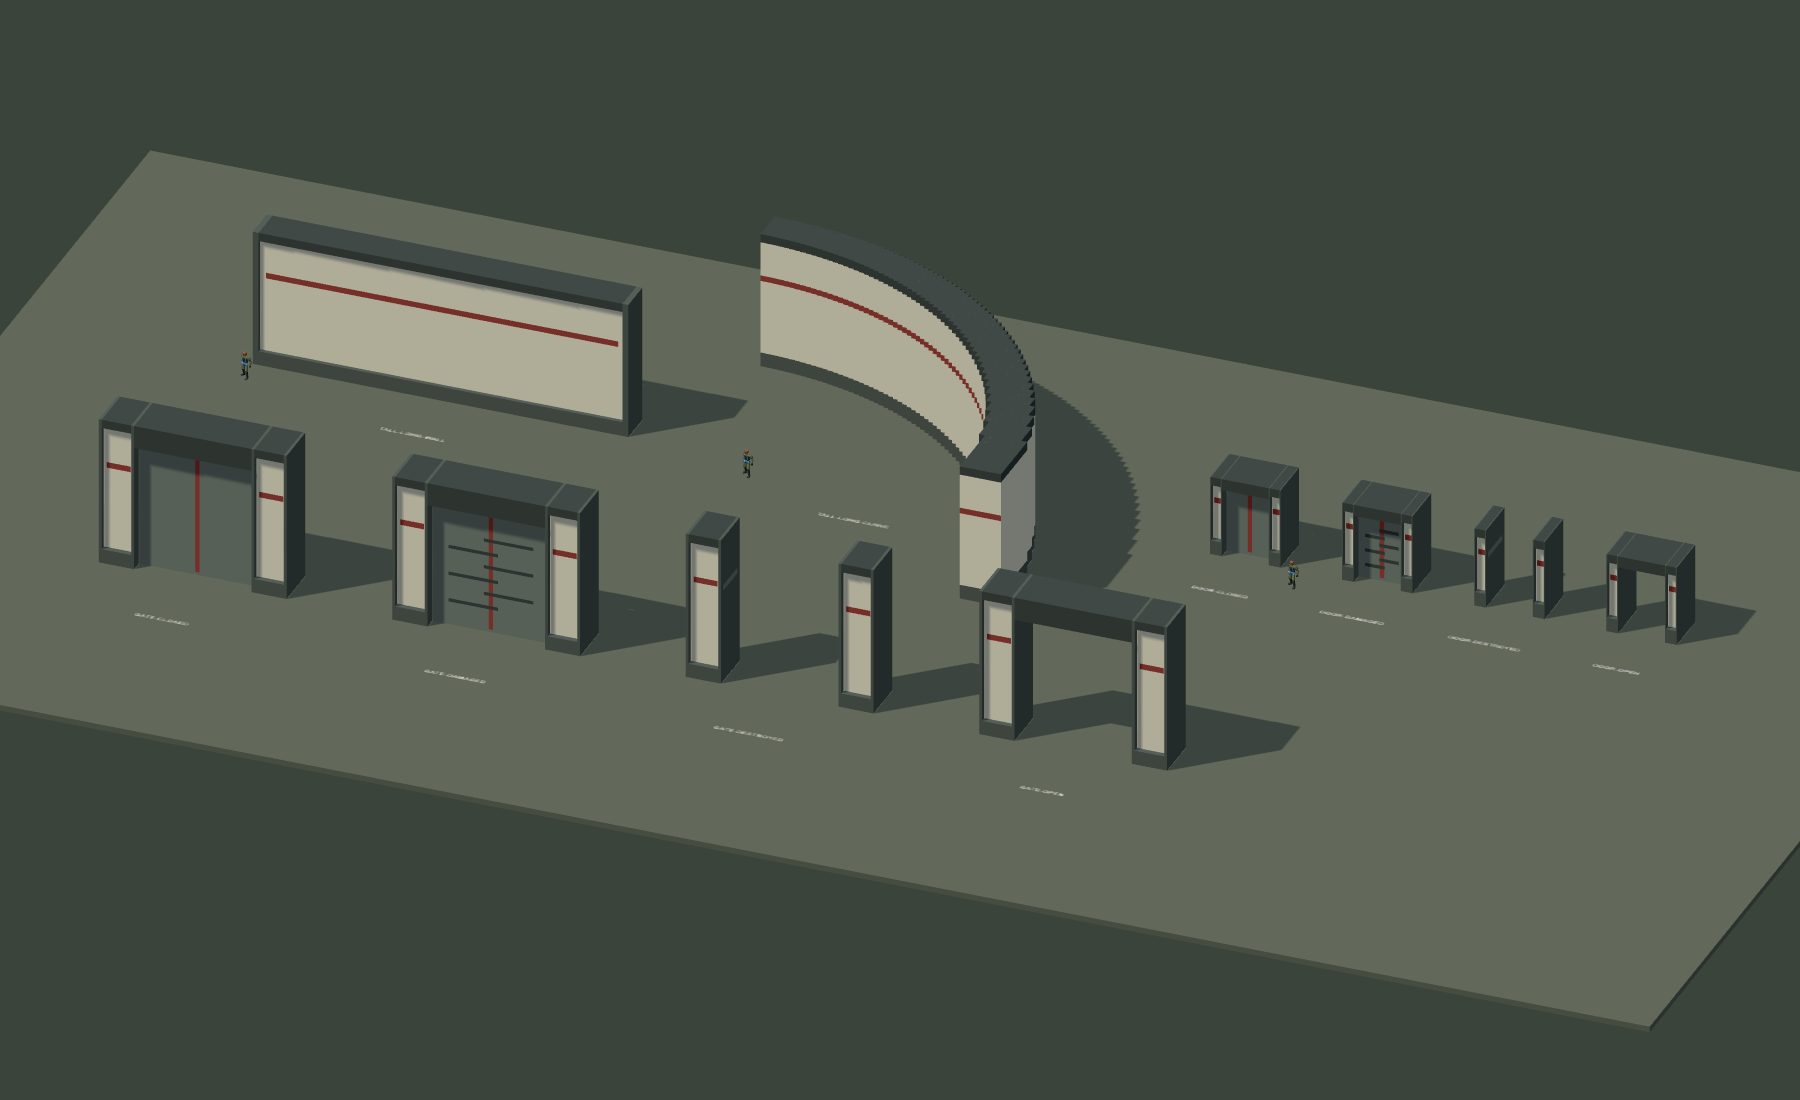
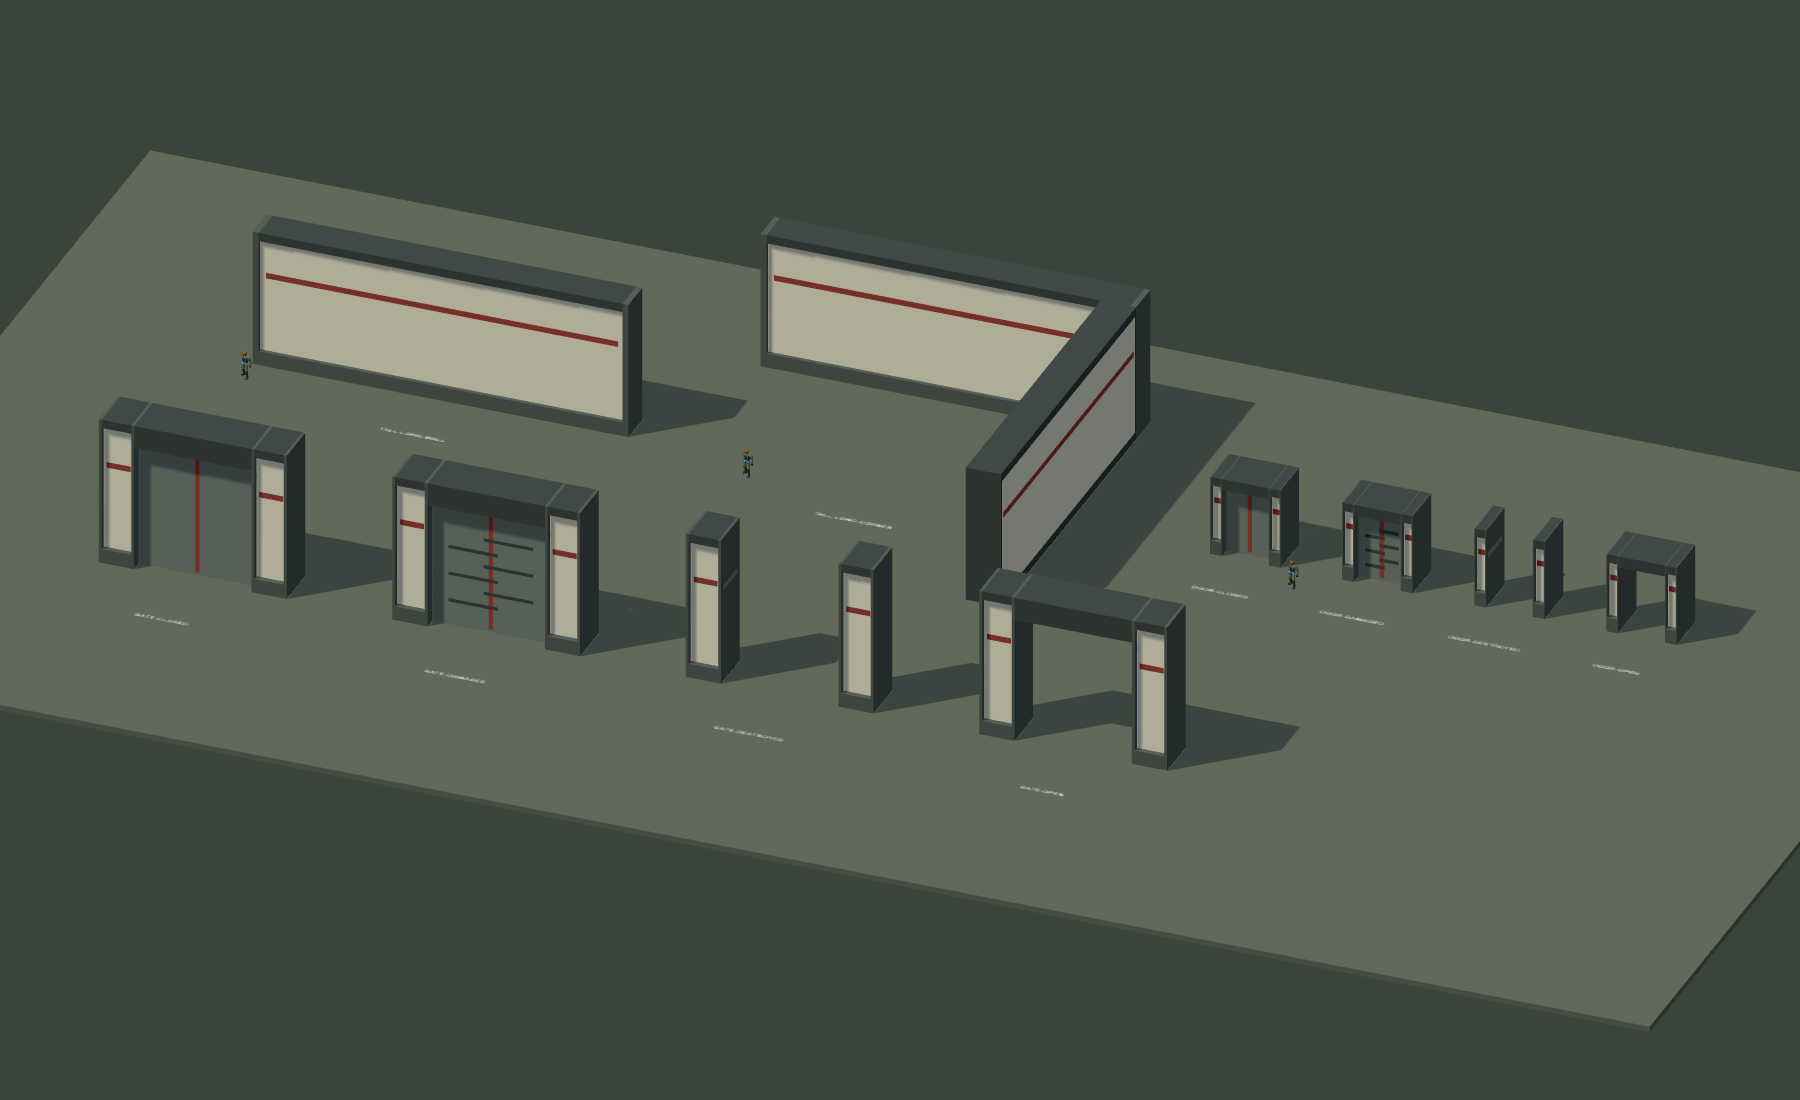
Replace bend with L corner and widen Highwall perimeter

Changed region(s): [[0.4044, 0.2164, 0.7156, 0.5564]]

diff --git a/src/data/fortification-kit.js b/src/data/fortification-kit.js
@@ -7,7 +7,8 @@ const def=(id,w,h,d,recipe,extra={})=>Object.freeze({id,dimensions:{width:w,heig
 const deviceMount=(id,position,type)=>({id,position,normal:[0,1,0],type});
 export const FORTIFICATION_MODULES=Object.freeze(Object.fromEntries([
  def('tall-long-wall',128,48,12,'wall'),
- def('tall-long-curve',128,48,128,'curve',{sockets:[{id:'west',position:[-64,0,-58],normal:[-1,0,0],type:'wall'},{id:'south',position:[58,0,64],normal:[0,0,1],type:'wall'}]}),
+ def('tall-long-corner',128,48,128,'corner',{sockets:[{id:'west',position:[-64,0,-58],normal:[-1,0,0],type:'wall'},{id:'south',position:[58,0,64],normal:[0,0,1],type:'wall'}]}),
+ def('border-wall',256,96,24,'wall'),
  ...['gate','door'].flatMap(type=>['closed','open','damaged','destroyed'].map(state=>def(`${type}-${state}`,type==='gate'?64:24,type==='gate'?52:28,16,'portal',{damageState:state==='damaged'||state==='destroyed'?state:null,portalState:state,navigation:{obstruction:'solids',openings:state==='open'||state==='destroyed'?[{width:type==='gate'?40:16,height:type==='gate'?44:24}]:[]}}))),
  def('tall-wall',32,48,12,'wall'),def('tall-half-wall',16,48,12,'wall'),
  def('tall-corner',32,48,32,'corner',{sockets:[{id:'west',position:[-16,0,-10],normal:[-1,0,0],type:'wall'},{id:'south',position:[10,0,16],normal:[0,0,1],type:'wall'}]}),
@@ -55,19 +56,6 @@ export function fortificationRecipe(moduleId,options={}){
  };
  switch(definition.recipe){
  case 'wall':panel(0,0,w,h,d);break;
- case 'curve':{
-  // Faceted quarter-circle, with the exact same strip union used for collision.
-  for(let x=-64;x<64;x+=2){
-   const near=x+64,far=near+2;
-   const z0=64-Math.sqrt(Math.max(0,128**2-near**2));
-   const z1=64-Math.sqrt(Math.max(0,116**2-far**2));
-   const depth=z1-z0,center=(z0+z1)/2;
-   box(x+1,2.5,center,2,5,depth,'base');
-   const core=box(x+1,25,center,2,40,depth,'armor');
-   box(x+1,46.5,center,2,3,depth,'frame');
-   for(const side of[-1,1])skin(core,x+1,32,center+side*(depth/2-.01),2,2,.02,'accent');
-  }break;
- }
  case 'portal':{
   const state=definition.portalState,post=moduleId.startsWith('gate-')?12:4,lintel=moduleId.startsWith('gate-')?8:4,opening=w-post*2,clear=h-lintel;
   for(const side of[-1,1])panel(side*(w-post)/2,0,post,h,d);
@@ -82,7 +70,7 @@ export function fortificationRecipe(moduleId,options={}){
   if(state==='destroyed')for(const side of[-1,1])box(side*(w/2-post*.7),h*.65,0,post*.6,2,d*.75,'inset');
   break;
  }
- case 'corner':{const t=moduleId==='low-corner'?8:12;panel(0,-d/2+t/2,w,h,t);const p=box(w/2-t/2,h/2,t/2,t,h,d-t,'frame');for(const s of[-1,1])skin(p,w/2-t/2+s*(t/2-.12),h/2,t/2,.2,h-4,d-t-2,'armor');break;}
+ case 'corner':{const t=moduleId==='low-corner'?8:12;panel(0,-d/2+t/2,w,h,t);const p=box(w/2-t/2,h/2,t/2,t,h,d-t,'frame');for(const s of[-1,1]){skin(p,w/2-t/2+s*(t/2-.12),h/2,t/2,.2,h-6,d-t-2,'armor');if(h>10)skin(p,w/2-t/2+s*(t/2-.01),h*.67,t/2,.02,2,d-t-4,'accent');}break;}
  case 'pillar':{box(0,2,0,w,4,d,'base');for(const side of[-1,1]){box(0,5,side*d*.29,w*.84,6,d*.4,'base');box(0,8,side*d*.22,w*.72,4,d*.32,'base');}const p=box(0,h/2,0,w*.62,h-6,d*.48,'armor');box(0,h-2,0,w,4,d,'frame');box(0,h-5,0,w*.8,3,d*.7,'base');for(const s of[-1,1])skin(p,0,h*.6,s*(d*.24-.01),w*.22,h*.42,.02,'accent');break;}
  case 'gate-frame':{const post=Math.min(12,w*.2),lintel=Math.min(8,h*.25);for(const s of[-1,1]){panel(s*(w-post)/2,0,post,h,d);}box(0,h-lintel/2,0,w-post*2,lintel,d,'frame');break;}
  case 'gate':{const p=box(0,h/2,0,w,h,d,'frame','gate');for(const s of[-1,1]){for(const side of[-1,1]){skin(p,side*w*.245,h/2,s*(d/2-.14),w*.46,h-5,.24,'inset');for(const y of[.2,.5,.8])skin(p,side*w*.245,h*y,s*(d/2-.01),w*.36,1,.02,'base');}skin(p,0,h/2,s*(d/2-.01),1.5,h-2,.02,'accent');}break;}

diff --git a/src/data/highwall.js b/src/data/highwall.js
@@ -2,7 +2,7 @@ import {metersToUnits} from '../core/world-units.js';
 import {fortificationPlacement} from './fortification-kit.js';
 
 export const HIGHWALL_HEIGHT=metersToUnits(30*.3048);
-export const HIGHWALL_BOUNDS=Object.freeze({minX:-324,maxX:324,minZ:-300,maxZ:300});
+export const HIGHWALL_BOUNDS=Object.freeze({minX:-544,maxX:448,minZ:-416,maxZ:416});
 export const HIGHWALL_PRESETS=Object.freeze([
  {id:'corridor',name:'Corridor fight',description:'Blue: you + 3 soldiers. Red: 4 soldiers. Loop through the western junctions.'},
  {id:'infestation',name:'Infestation',description:'Blue: you + 3 soldiers. Red: 6 shamblers. Bounded groups, no respawns.'},
@@ -31,7 +31,7 @@ export function highwallLayout({gateClosed=true,revision=1}={}){
   for(const side of[-1,1])place(`${id}-end-${side}`,'tall-end-cap',x+(axis==='x'?side*total/2:0),z+(axis==='z'?side*total/2:0),{height:HIGHWALL_HEIGHT,rotation:axis==='x'?0:90});
  };
  // Repeated vertical spines, with generous transverse junctions and loops.
- for(const [i,x]of[-286,-208,-130,-52].entries()){
+ for(const [i,x]of[-286,-130].entries()){
   for(const[j,z]of[-220,-100,20,140].entries()){
    wall(`spine-${i}-${j}`,x,z,72);
   }
@@ -43,10 +43,14 @@ export function highwallLayout({gateClosed=true,revision=1}={}){
  wall('field-screen',245,80,126,'x');
  // Perimeter and watchtower kit establish a compound, rather than isolated test panels.
  // Tower windows are real openings between authored posts; these have no scripted guards.
- wall('compound-west',-313,0,550);
- wall('compound-north',-164,-286,298,'x');
- wall('compound-south-west',-281,282,64,'x');
- wall('compound-south-east',-80,282,100,'x');
+ // Spacious western extension: large right-angle rooms with alternating exits.
+ for(const [i,[x,z,rotation]] of [[-436,-210,0],[-436,80,180],[-270,320,180]].entries())place('large-corner-'+i,'tall-long-corner',x,z,{height:HIGHWALL_HEIGHT,rotation});
+ // Outer perimeter is twice main-wall height and long-panel length.
+ // South access remains an explicit 128u opening, never an invisible border.
+ const border=(id,x,z,span,rotation=0)=>place(id,'border-wall',x,z,{span,height:HIGHWALL_HEIGHT*2,rotation});
+ border('border-west',-524,0,800,90);border('border-east',428,0,800,90);
+ border('border-north',-48,-396,976);
+ border('border-south-west',-304,396,464);border('border-south-east',252,396,376);
  for(const [i,[x,z]]of[[-302,-274],[-302,270],[-28,-274]].entries()){
   place(`tower-${i}`,'tall-tower',x,z);
  }
@@ -83,7 +87,7 @@ export function highwallLayout({gateClosed=true,revision=1}={}){
  // Freestanding route boards have physical supports, rather than floating in space.
  for(const [i,s]of signs.entries())for(const side of[-1,1])box(`sign-support-${i}-${side}`,s.x+side*(s.w/2-2),s.z,2,2,s.y+s.w/8,0,'post');
  for(const module of modules)pieces.push(...fortificationPlacement(module).solids);
- return {version:2,revision,seed:1701,bounds:{...HIGHWALL_BOUNDS},pieces,modules,signs,
+ return {version:3,revision,seed:1701,bounds:{...HIGHWALL_BOUNDS},pieces,modules,signs,
   zones:[{id:'infantry',x:-169,z:-40,width:300,depth:490},{id:'armor',x:66,z:0,width:100,depth:570},{id:'air',x:233,z:-110,width:168,depth:320}],
   blue:[{x:-247,z:240},{x:-229,z:240},{x:-247,z:222},{x:-229,z:222}],
   red:[{x:-169,z:0},{x:-151,z:0},{x:-169,z:-18},{x:-151,z:-18}],

diff --git a/docs/FORTIFICATION_EXPANSION.md b/docs/FORTIFICATION_EXPANSION.md
@@ -9,3 +9,10 @@ Added complete portal variants `gate-closed/open/damaged/destroyed` and `door-cl
 Visual evidence: `artifacts/fortification-expansion/module-lineup.png`. This is an isolated rendered asset review, not a new native gameplay acceptance run. Existing kit bounds/skins, portal contact, long-wall sockets, curve hollow space and elevated navigation are regression-tested. No editor UI was added.
 
 Validation: 28 focused regression tests passed using the repository CSS import hook; production build passed (630 modules). Browser asset capture reported zero page errors.
+
+## Revision: L corners and spacious perimeter
+The rounded module was replaced by `tall-long-corner`, a 128u right-angle L with the same endpoint sockets. Main north/south maze lanes now have 156u center spacing rather than 78u. Three large L placements add western/southern space. Bounds expand from 648x600u to 992x832u. Existing spawn, gate, tank and bunker coordinates remain.
+
+`border-wall` defaults to 256x96x24u: twice long-panel length, height and thickness. Authored perimeter spans adapt to the outer boundary; Highwall height is exactly twice the 30ft main wall. The south has a 128u ground entrance. No invisible ceiling. Layout version is 3; reload/reset to rebuild geometry and navigation. Existing saves may retain their authored old layout.
+
+24 focused tests passed, including actual fighter stair navigation and current tower access. Production build passed. `artifacts/highwall-spacious/module-lineup.png` is an isolated layout inspection, not player vision or full battle acceptance. Expanded encounter balance still needs play review.
